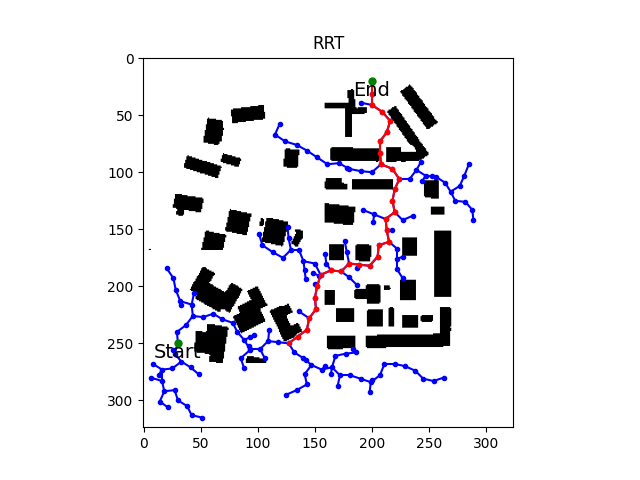
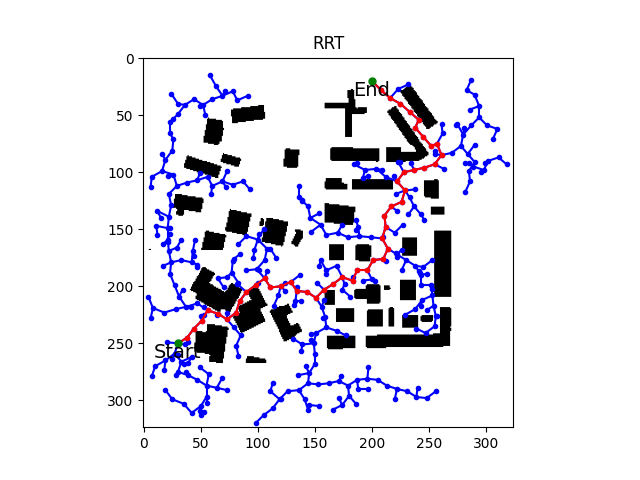
Updated

diff --git a/informed_RRTstar.py b/informed_RRTstar.py
@@ -1,0 +1,259 @@
+import math
+import numpy as np
+from numpy import random
+from random import randrange
+import networkx as nx
+from scipy import spatial
+from PIL import Image
+import matplotlib.pyplot as plt
+
+# Class for each tree node
+class Node:
+    def __init__(self, row, col):
+        self.row = row        # coordinate
+        self.col = col        # coordinate
+        self.parent = None    # parent node
+        self.cost = 0.0       # cost
+
+# Class for Informed RRT*
+class Informed_RRTSTAR:
+    # Constructor
+    def __init__(self, map_array, start, goal):
+        self.map_array = map_array            # map array, 1->free, 0->obstacle
+        self.size_row = map_array.shape[0]    # map size
+        self.size_col = map_array.shape[1]    # map size
+
+        self.start = Node(start[0], start[1]) # start node
+        self.goal = Node(goal[0], goal[1])    # goal node
+        self.vertices = []                    # list of nodes
+        self.found = False                    # found flag
+        self.goalcost = 0.0                   # cost from start to goal
+
+    def init_map(self):
+        self.found = False
+        self.vertices = []
+        self.vertices.append(self.start)
+
+    def euclidean_distance(self, node1, node2):
+        euclidean_distance = math.sqrt((node1.row - node2.row) ** 2 + (node1.col - node2.col) ** 2)
+        return euclidean_distance
+
+    def check_collision(self, node1, node2):
+        # Check if there is any obstacle between two nodes
+        points_between = zip(np.linspace(node1.row, node2.row, dtype=int), 
+                             np.linspace(node1.col, node2.col, dtype=int))
+        for point in points_between:
+            if self.map_array[point[0]][point[1]] == 0:
+                return True
+        return False
+
+    def get_new_sample_point(self, goal_bias):
+        # Randomly sample a new point; with probability "goal_bias", sample the goal point
+        a = randrange(100)
+        if a <= goal_bias:
+            y = True
+        else:
+            y = False
+        if y == False:
+            p1rows = random.randint(self.size_row)
+            p1cols = random.randint(self.size_col)
+            new_point = Node(p1rows, p1cols)
+            return new_point
+        else:
+            return self.goal
+
+    def get_nearest_node(self, point):
+        # Find the nearest node to the given point
+        euclidean_distance_to_new_node = []
+        minindex = 0
+        for i in range(len(self.vertices)):
+            euclidean_distance = self.euclidean_distance(self.vertices[i], point)
+            euclidean_distance_to_new_node.append(euclidean_distance)
+
+        minindex = euclidean_distance_to_new_node.index(min(euclidean_distance_to_new_node))
+        return self.vertices[minindex]
+    
+    def extend_towards_point(self, p1, p2):
+        step = 10 
+        euclidean_distance_1 = self.euclidean_distance(p1, p2)
+        if euclidean_distance_1 > step:
+            euclidean_distance_1 = step
+        
+        theta = math.atan2(p2.col - p1.col, p2.row - p1.row)
+        new_node1 = Node((int((p1.row + euclidean_distance_1 * math.cos(theta)))),
+                         (int((p1.col + euclidean_distance_1 * math.sin(theta)))))
+
+        return new_node1
+
+    def find_neighbors(self, new_node, neighbor_size):
+        # Find neighbors within neighbor_size distance from the new_node
+        neighbors = []
+        free_neighbors = []
+        for i in range(len(self.vertices)):
+            euclidean_distance_rrt = self.euclidean_distance(new_node, self.vertices[i])
+            if euclidean_distance_rrt <= neighbor_size:
+                neighbors.append(self.vertices[i])
+
+        for i in range(len(neighbors)):
+            # Find only the neighboring nodes that do not have obstacles in between
+            collision_1 = self.check_collision(neighbors[i], new_node)
+            if collision_1 == True:
+                continue
+            else:
+                free_neighbors.append(neighbors[i])
+        free_neighbors.remove(new_node)
+        return free_neighbors
+
+    def rewire(self, new_node, neighbors):
+        if neighbors == []:
+            # If there are no neighbors, no need to rewire
+            return
+
+        # Compute the Euclidean distance from the new node to the neighbor nodes
+        euclidean_distances = [self.euclidean_distance(new_node, node) for node in neighbors]
+
+        # Rewire the new node
+        # Compute the least potential cost
+        costs = [euclidean_distance + self.path_cost(self.start, neighbors[i]) for i, euclidean_distance in enumerate(euclidean_distances)]
+        indices = np.argsort(np.array(costs))
+
+        # Check collision and connect the best node to the new node
+        for i in indices:
+            if not self.check_collision(new_node, neighbors[i]):
+                new_node.parent = neighbors[i]
+                new_node.cost = euclidean_distances[i]
+                break
+
+        # Rewire new_node's neighbors
+        for i, node in enumerate(neighbors):
+            # Compute new cost
+            new_cost = self.path_cost(self.start, new_node) + euclidean_distances[i]
+            # If new cost is lower and there are no obstacles in between
+            if self.path_cost(self.start, node) > new_cost and \
+               not self.check_collision(node, new_node):
+                node.parent = new_node
+                node.cost = euclidean_distances[i]
+
+    def path_cost(self, start_node, end_node):
+        # Compute path cost starting from start node to end node
+        cost = 0
+        curr_node = end_node
+        while start_node.row != curr_node.row or start_node.col != curr_node.col:
+            # Keep tracing back until finding the start_node 
+            # or no path exists
+            parent = curr_node.parent
+            if parent is None:
+                print("Invalid Path")
+                return 0
+            cost += curr_node.cost
+            curr_node = parent
+        
+        return cost
+
+    def sample_unit_circle(self):
+        # Sample a point within the unit circle
+        while True:
+            x, y = random.uniform(-1, 1), random.uniform(-1, 1)
+            if x ** 2 + y ** 2 < 1:
+                a = np.array([[x], [y]])
+            else:
+                continue
+            return a
+
+    def ellipse(self, cmax, start, goal, center, cmin):
+        while True:
+            extend_towards_point = math.atan2(goal.col - start.col, goal.row - start.row)
+            c, s = np.cos(extend_towards_point), np.sin(extend_towards_point)
+            C1 = np.array(((c, -s), (s, c)))          # Rotation matrix of the rotated ellipse calculated using theta above
+            r1 = cmax / 2                             # Major axis
+            r2 = (math.sqrt(cmax ** 2 - cmin ** 2)) / 2    # Minor axis
+            L = np.diag([r1, r2])                     # Diagonal matrix to convert ellipse from circle
+            x_ball = self.sample_unit_circle()
+
+            xr = np.dot(np.dot(C1, L), x_ball) + center   # Final transformation from circle to rotated and translated ellipse
+            xr1 = xr[0][0]
+            xr2 = xr[1][0]
+            xrand = Node(int(xr1), int(xr2))
+            if xr1 < self.size_row and xr2 < self.size_col:
+                return xrand
+            else:
+                continue
+
+    def visualize_map(self, title):
+        # Create empty map
+        fig, ax = plt.subplots(1)
+        img = 255 * np.dstack((self.map_array, self.map_array, self.map_array))
+        ax.imshow(img)
+
+        # Draw Trees or Sample points
+        for node in self.vertices[1:-1]:
+            plt.plot(node.col, node.row, markersize=3, marker='o', color='blue')
+            plt.plot([node.col, node.parent.col], [node.row, node.parent.row], color='blue')
+
+        # Draw Final Path if found
+        if self.found:
+            cur = self.goal
+            while cur.col != self.start.col and cur.row != self.start.row:
+                plt.plot([cur.col, cur.parent.col], [cur.row, cur.parent.row], color='red')
+                cur = cur.parent
+                plt.plot(cur.col, cur.row, markersize=3, marker='o', color='red')
+
+        # Draw start and goal
+        plt.plot(self.start.col, self.start.row, markersize=5, marker='o', color='green')
+        plt.text(self.start.col, self.start.row, 'Start', color='black', fontsize=14, va='top', ha='center')
+        plt.plot(self.goal.col, self.goal.row, markersize=5, marker='o', color='green')
+        plt.text(self.goal.col, self.goal.row, 'End', color='black', fontsize=14, va='top', ha='center')
+
+        # Show image
+        plt.show()
+
+    def Informed_RRT_star(self, n_pts=1000, neighbor_size=20):
+        self.init_map()
+        goal_bias = 4
+        step = 10
+        cmin = self.euclidean_distance(self.start, self.goal)
+        xcenter = np.array([[(self.start.row + self.goal.row) / 2], [(self.start.col + self.goal.col) / 2]])
+        nearnode = []
+        for i in range(n_pts):
+            if self.found == True:
+                # If the goal is found, sample within the ellipse
+                new_p = self.ellipse(self.goalcost, self.start, self.goal, xcenter, cmin)
+            else:
+                # Else, sample randomly on the map
+                new_p = self.get_new_sample_point(goal_bias)
+
+            if self.map_array[new_p.row][new_p.col] == 0:
+                continue
+            else:
+                nearestnode = self.get_nearest_node(new_p)
+                newnode = self.extend_towards_point(nearestnode, new_p)
+                collision = self.check_collision(newnode, nearestnode)
+                if collision == True:
+                    continue
+                else:
+                    self.vertices.append(newnode)
+                    neighbors = self.find_neighbors(newnode, 20)
+                    self.rewire(newnode, neighbors)
+
+                euclidean_distance_to_goal = self.euclidean_distance(newnode, self.goal)
+                if euclidean_distance_to_goal <= step:
+                    self.goal.parent = newnode
+                    self.goal.cost = euclidean_distance_to_goal
+                    self.vertices.append(self.goal)
+                    self.found = True
+                    self.goalcost = self.path_cost(self.start, self.goal)
+                    nearnode.append(newnode)
+
+        self.rewire(self.goal, nearnode)    # Rewire again all the nodes close to the goal
+
+        # Output
+        if self.found:
+            steps = len(self.vertices) - 2
+            length = self.goalcost
+            print("It took %d nodes to find the path using Informed RRT*" % steps)
+            print("The length of path is %.2f" % length)
+        else:
+            print("No path found")
+
+        # Draw result
+        self.visualize_map(title="Informed RRT*")

diff --git a/main.py b/main.py
@@ -2,6 +2,10 @@ from PIL import Image
 import numpy as np
 import matplotlib.pyplot as plt
 from RRT import RRTPlanner
+from informed_RRTstar import Informed_RRTSTAR
+import time
+
+start_time = time.time()
 
 def load_map(file_path, resolution_scale):
     # Load the image with grayscale
@@ -28,7 +32,13 @@ if __name__ == "__main__":
 
     # Create RRTPlanner object with the loaded map
     rrt_planner = RRTPlanner(map_array, start, goal)
+    Info_RRT_star = Informed_RRTSTAR(map_array, start, goal)
 
     # Search with RRT and RRT*
     rrt_planner.RRT(n_pts=1000)
     rrt_planner.RRT_star(n_pts=1000)
+    Info_RRT_star.Informed_RRT_star(n_pts=5000)
+
+    end_time = time.time()
+    elapsed_time = end_time - start_time
+    print(f"Elapsed time: {elapsed_time} seconds")
